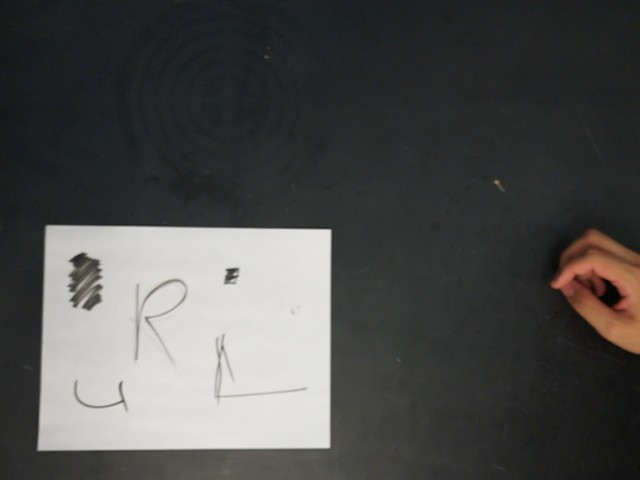
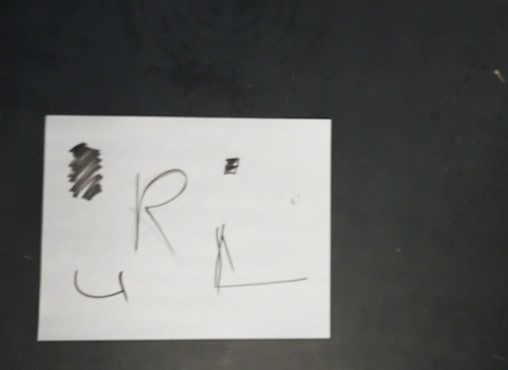
Culled images and edited a few for image processing

diff --git a/image_handling.py b/image_handling.py
@@ -1,0 +1,31 @@
+
+
+from git import Repo
+from image_processing import main
+import os
+import matplotlib.pyplot as plt
+
+REPO_PATH = r"\Users\russe\CodeStuff\paCubeSat\PA2425-CubeSat"     #Your github repo path: ex. /home/pi/FlatSatChallenge
+FOLDER_PATH = "images" 
+def show_image(image, title="Image", cmap_type='gray'):
+        plt.imshow(image, cmap=cmap_type)
+        plt.title(title)
+        plt.axis('off')
+        plt.show()
+def returnImages() -> list[str]:
+    """
+    This function returns a list of image paths.
+    """
+    repo = Repo(REPO_PATH)
+    origin = repo.remote('origin')
+
+    image_folder_path = os.path.join(REPO_PATH, FOLDER_PATH)
+    image_paths = [os.path.join(image_folder_path, f) for f in os.listdir(image_folder_path) if f.endswith('.jpg')]
+
+    return image_paths
+    
+a=returnImages()
+b=[c for c in a if "image_" in c]
+c=main(b[-2], (11,8.5))
+
+show_image(c)

diff --git a/image_processing.py b/image_processing.py
@@ -15,7 +15,11 @@ from skimage.feature import corner_harris, corner_peaks
 from skimage.transform import warp, AffineTransform, resize
 
 
-def main(image_path=r"C:\Users\russe\Downloads\testcube.png", dimensions=(3, 4)):
+def main(image_path: str , dimensions: tuple = (11, 8.5)) -> np.ndarray:
+    """
+    This function takes in an image path and dimensions of a grid and returns a processed image.
+    """
+    
     # def main(image_path="easySudoku.png"):
 
     dimensions=(3,4)
@@ -208,4 +212,3 @@ def main(image_path=r"C:\Users\russe\Downloads\testcube.png", dimensions=(3, 4))
     # return ready_image
 
     return color_ready_image
-main()
